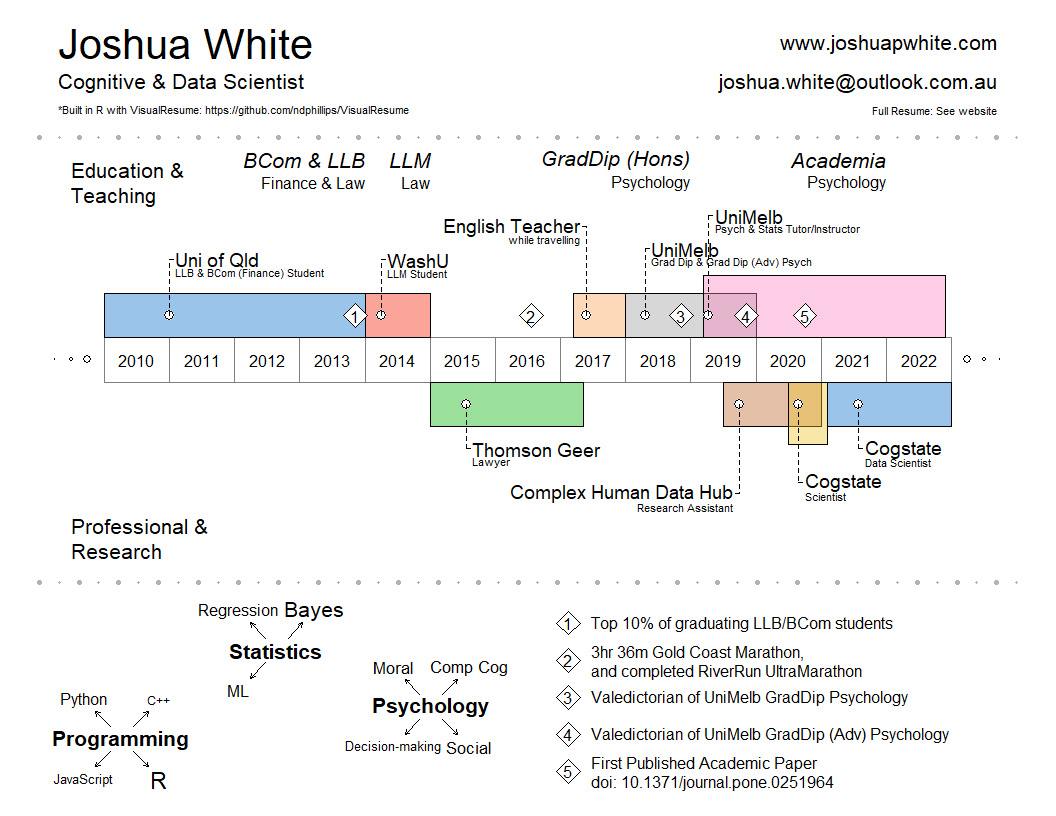
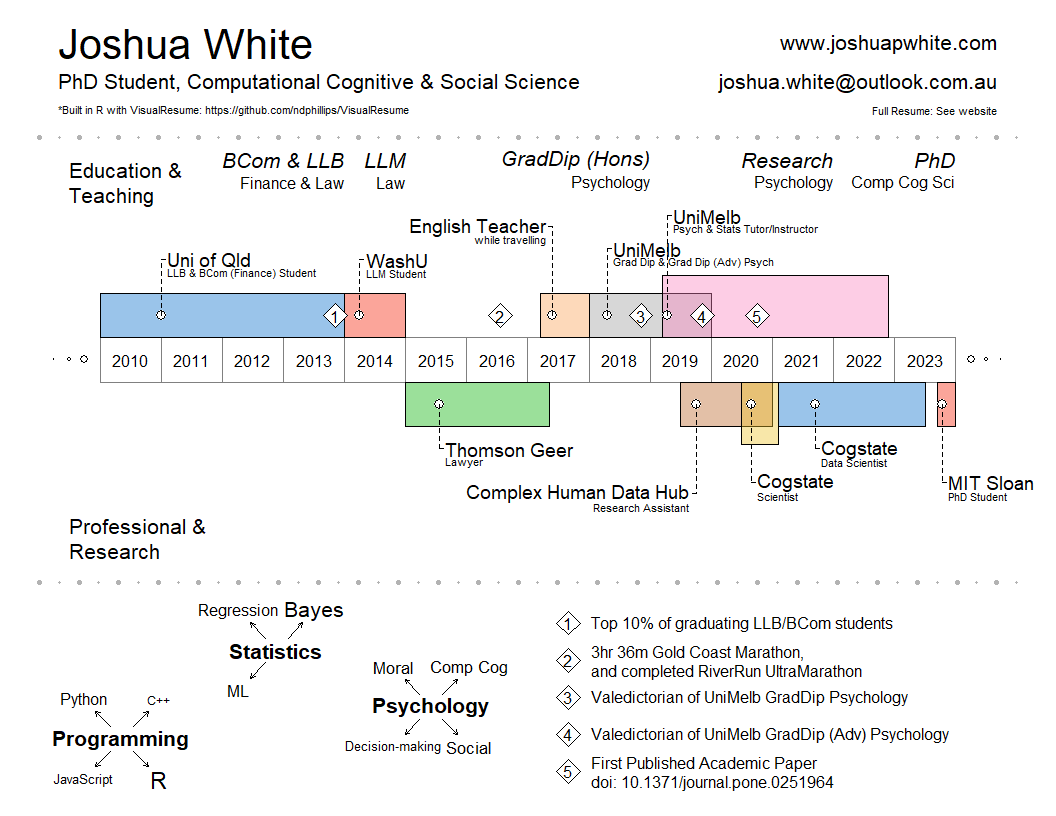
update visual resume to include start of PhD.

diff --git a/README.md b/README.md
@@ -21,7 +21,7 @@ library(VisualResume)
 VisualResume(
   titles.left = c(
     "Joshua White",
-    "Cognitive & Data Scientist",
+    "PhD Student, Computational Cognitive & Social Science",
     "*Built in R with VisualResume: https://github.com/ndphillips/VisualResume"
     ),
   titles.right = c(
@@ -36,20 +36,21 @@ VisualResume(
     data.frame(
       title = c("Uni of Qld", "WashU", "Thomson Geer", "English Teacher",
                 "UniMelb", "UniMelb", "Complex Human Data Hub", 
-                "Cogstate", "Cogstate"),
+                "Cogstate", "Cogstate", "MIT Sloan"),
       sub = c("LLB & BCom (Finance) Student", "LLM Student", "Lawyer", 
               "while travelling", "Grad Dip & Grad Dip (Adv) Psych",
-              "Psych & Stats Tutor/Instructor", "Research Assistant", "Scientist", "Data Scientist"),
-      start = c(2010, 2014,    2015, 2017.2, 2018, 2019.2, 2019.5, 2020.5, 2021.1),
-      end =   c(2014, 2015, 2017.35,   2018, 2020, 2022.9,   2021, 2021.1,   2023),
-      side = c(1, 1, 0, 1, 1, 1, 0, 0, 0),
-      label.y = c(72.5, 72.5, 30, 80, 75, 82.5, 20, 22.5, 30)
+              "Psych & Stats Tutor/Instructor", "Research Assistant", 
+              "Scientist", "Data Scientist", "PhD Student"),
+      start = c(2010, 2014,    2015, 2017.2, 2018, 2019.2, 2019.5, 2020.5, 2021.1, 2023.7),
+      end =   c(2014, 2015, 2017.35,   2018, 2020, 2022.9,   2021, 2021.1, 2023.5, 2024),
+      side = c(1, 1, 0, 1, 1, 1, 0, 0, 0, 0),
+      label.y = c(72.5, 72.5, 30, 80, 75, 82.5, 20, 22.5, 30, 22.5)
     ),
   milestones = 
     data.frame(
-      title = c("BCom & LLB", "LLM", "GradDip (Hons)", "Academia"),
-      sub = c("Finance & Law", "Law", "Psychology", "Psychology"),
-      year = c(2014, 2015, 2019, 2022)),
+      title = c("BCom & LLB", "LLM", "GradDip (Hons)", "Research", "PhD"),
+      sub = c("Finance & Law", "Law", "Psychology", "Psychology", "Comp Cog Sci"),
+      year = c(2014, 2015, 2019, 2022, 2024)),
   events = data.frame(
     year = c(2013.85, 2016.55, 2018.85, 2019.85, 2020.75),
     title = c("Top 10% of graduating LLB/BCom students",
